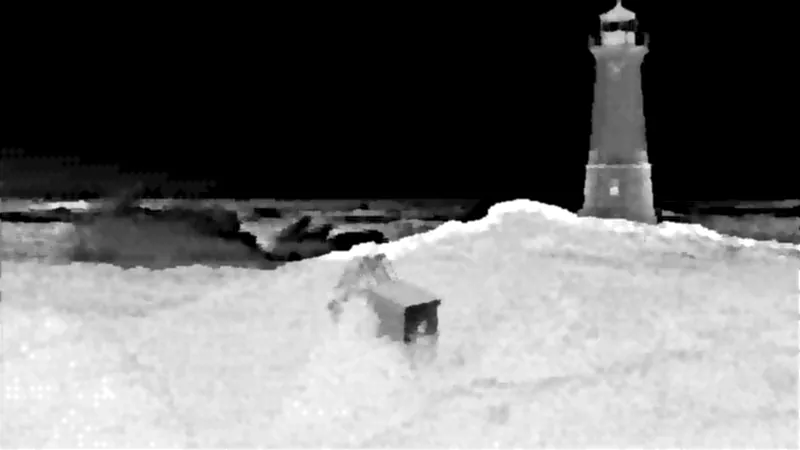
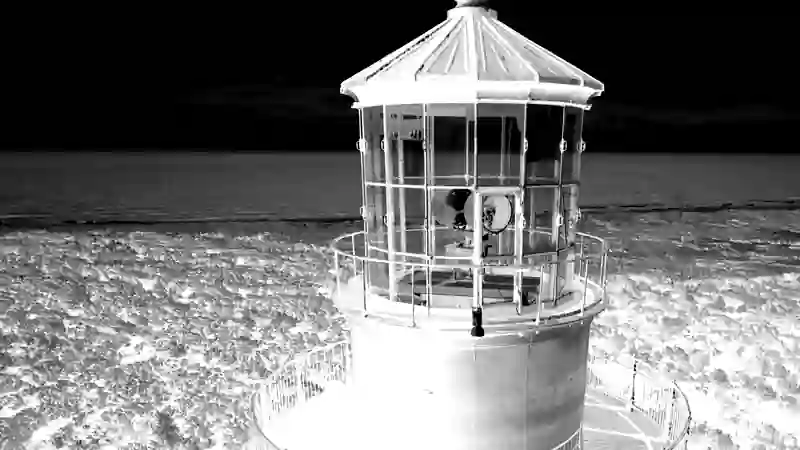
landing: the canvas screen's photograph is Cape Hatteras Light, public domain
Kevin's decision of 2026-10-18: screen 02 and the landing's fixture deck
replace the Louisbourg lighthouse (Ken Heaton, CC BY-SA 4.0) with the
National Park Service photograph "Cape Hatteras Lighthouse inspection
12-11-2020" (Commons, Flickr CapeHatterasNPS 53553243102), a public domain
work of the United States federal government. The GT brand deck keeps the
Louisbourg lighthouse and its credit row.

- apps/studio/home-deck: the asset mood-lighthouse is re-dithered by the
  CLI from the original (4608 by 3456, not committed) with `turboslide
  asset dither mood-lighthouse --source <original> --crop 0,0,4000,2250
  --invert --black 28 --white 223 --polarity dark-ground --plate
  lower-right`: the top left 16:9 crop, the 8 by 8 Bayer screen at 2 px
  cells, the dark twin the inverse of the light one. The twins are the
  pipeline's 1-bit PNGs (18 KB each) in place of the two grayscale JPEGs
  copied from the GT deck (582 and 586 KB). The black and white points
  reproduce the preview's stretch (sharp normalise 2 to 98, linear 1.25,
  -32) after the fixed 0.5 percent autocontrast. The record's source,
  credit and alt text name the new photograph; metrics are the CLI's.
- The slide's words: "Cape Hatteras Light", "The lantern of Cape Hatteras
  Light on North Carolina's Outer Banks, printed through an 8 by 8 screen
  at 2 px cells.", "Photograph: National Park Service, public domain". The
  heading fits the 508 px box on one line; the paragraph takes three
[…]

diff --git a/apps/studio/src/components/site/canvas-pose.ts b/apps/studio/src/components/site/canvas-pose.ts
@@ -1,7 +1,8 @@
 /**
  * The lighthouse slide of screen 02 (docs/SITE.md 9) in slide px, as the Turboslide CLI wrote
- * it (2026.1008.3, built at b01cb984, on a copy of `apps/studio/home-deck`): `slide to-canvas
- * lighthouse` placed every object at its box (home-deck/recorded/lighthouse-canvas.json), then
+ * it (2026.1008.3, built at 417fd808, on a copy of `apps/studio/home-deck`): `slide to-canvas
+ * lighthouse` placed every object at its box (home-deck/recorded/lighthouse-canvas.json; the
+ * heading takes one line of the plate, the paragraph three), then
  * `block set lighthouse#h /pos '{"x":137,"y":129,"w":508,"h":48}'` and `block rotate lighthouse#h
  * --to 354` moved and turned the heading. An editor drag commits the same `block.set` on `/pos`
  * (packages/viewer/src/Gestures.tsx) and a turn the same rotate. The table rounds to whole px.
@@ -9,11 +10,11 @@
 export type SlideBox = { x: number; y: number; w: number; h: number; rotate?: number };
 
 export const LIGHTHOUSE = {
-  plate: { x: 903, y: 569.734375, w: 560, h: 201.265625 },
-  paragraph: { x: 929, y: 651.25, w: 508, h: 66 },
+  plate: { x: 903, y: 536.734375, w: 560, h: 234.265625 },
+  paragraph: { x: 929, y: 618.25, w: 508, h: 99 },
   credit: { x: 929, y: 729.25, w: 508, h: 21.75 },
   /** the heading where `to-canvas` put it, on the plate */
-  rest: { x: 929, y: 591.734375, w: 508, h: 47.515625, rotate: 0 },
+  rest: { x: 929, y: 558.734375, w: 508, h: 47.515625, rotate: 0 },
   /** the heading after the two commands */
   moved: { x: 137, y: 129, w: 508, h: 48, rotate: 354 },
 } as const satisfies Record<string, SlideBox>;

diff --git a/apps/studio/src/components/site/copy.ts b/apps/studio/src/components/site/copy.ts
@@ -103,13 +103,13 @@ export const CANVAS_SCREEN = {
   figure: {
     label: 'Mood slide',
     note: 'The heading dragged off its plate and turned. The dashed box is where it was.',
-    alt: 'The lighthouse slide, a photograph of the Louisbourg lighthouse printed in a two tone dither. The heading, Louisbourg lighthouse, was dragged from the paper plate in the lower right to the sky in the upper left and turned 6 degrees to the left. The selection ring of the editor is on it.',
+    alt: 'The lighthouse slide, a drone photograph of the lantern room of Cape Hatteras Light printed in a two tone dither. The heading, Cape Hatteras Light, was dragged from the paper plate in the lower right to the sky in the upper left and turned 6 degrees to the left. The selection ring of the editor is on it.',
   },
   slide: {
-    heading: 'Louisbourg lighthouse',
+    heading: 'Cape Hatteras Light',
     paragraph:
-      'A lighthouse at Louisbourg, Nova Scotia, printed through an 8 by 8 screen at 2 px cells.',
-    credit: 'Photograph: Ken Heaton, CC BY-SA 4.0',
+      "The lantern of Cape Hatteras Light on North Carolina's Outer Banks, printed through an 8 by 8 screen at 2 px cells.",
+    credit: 'Photograph: National Park Service, public domain',
     /** the editor's selection chip on the heading: its kind and its id */
     chip: 'heading · h',
   },

diff --git a/apps/studio/src/components/site/copy.test.ts b/apps/studio/src/components/site/copy.test.ts
@@ -58,10 +58,10 @@ const NAMES = [
   'Present',
   /* the figures of screens 02 to 06: the photograph's place and author and its licence, the
      product's menus, panels and settings by name, the example deck and its file names */
-  'Louisbourg',
-  'Nova Scotia',
-  'Ken Heaton',
-  'CC BY-SA',
+  'Cape Hatteras Light',
+  'North Carolina',
+  'Outer Banks',
+  'National Park Service',
   'X',
   'Y',
   'New',

diff --git a/docs/brand.md b/docs/brand.md
@@ -276,10 +276,11 @@ the third entry dated 2026-10-01.
 Mood pictures appear on the card, Not found, the empty `/decks` state and the Sign in plate. On
 `/home` since the landing round (Kevin's answer 1 to `docs/LANDING.md` section 7, 2026-10-02) the
 Blue Marble prints in the hero's first screen as its field, with its credit on the hero slide, and
-since the landing's second pass (`docs/LANDING.md` 2.6, question 14, 2026-10-03) the Louisbourg
-lighthouse is the canvas band's picture in place of the Rosetta Stone, which leaves `/home`; the
-landing's fixture deck and the page's stills are copies and prints of the two files below, each
-listed with them. A picture whose licence was not read on its source
+since Kevin's decision of 2026-10-18 the canvas screen's picture is the National Park Service's
+photograph of Cape Hatteras Light, a public domain work of the United States federal government,
+in place of the Louisbourg lighthouse (CC BY-SA 4.0), which stays in the GT deck alone. The
+landing's fixture deck (`apps/studio/home-deck`) and screen 02's tone are copies and prints of
+the files below, each listed with them. A picture whose licence was not read on its source
 page stays out of the repository and the product. Lane B4 read each licence on 2026-10-02 between
 08:57Z and 09:01Z from the picture's source page or its record there (`round1/build/b4.md`, "The
 licence read"; the raw reads under `round1/build/b4/licence/`). Prototemplate's
@@ -294,7 +295,8 @@ backticks and states its licence.
 | A proto-cuneiform tablet, `mood-tablet`                  | `decks/gt-brand/assets/mood-tablet-{light,dark}.jpg`                                                                                                                                                                                                                                                                                                                                                 | Photograph: The Metropolitan Museum of Art, Open Access, public domain         | CC0 (the Met's donation of photograph DP293245); the Met's collection API reads `isPublicDomain: true` for object 327385 | https://commons.wikimedia.org/wiki/File:Cuneiform_tablet-_administrative_account_with_entries_concerning_malt_and_barley_groats_MET_DP293245.jpg |
 | Karahisari's calligraphy, `mood-calligraphy`             | `decks/gt-brand/assets/mood-calligraphy-{light,dark}.jpg`                                                                                                                                                                                                                                                                                                                                            | Calligraphy: Ahmed Karahisari, 16th century, public domain                     | Public domain (PD-Art, PD-old-auto-expired, death year 1556)                                                             | https://commons.wikimedia.org/wiki/File:Ahmed_Karahisari_-_Karalama_(calligraphy_exercise)_-_Google_Art_Project.jpg                              |
 | Johnson's grammar, `mood-johnson`                        | `decks/gt-brand/assets/mood-johnson-{light,dark}.jpg`                                                                                                                                                                                                                                                                                                                                                | Image: Samuel Johnson, 1755, scanned by the Wellcome Collection, public domain | Public domain: the Creative Commons Public Domain Mark 1.0 in the item's rights field                                    | https://archive.org/details/b30451541_0001                                                                                                       |
-| The Louisbourg lighthouse, `mood-lighthouse`             | `decks/gt-brand/assets/mood-lighthouse-{light,dark}.jpg`, `apps/studio/home-deck/assets/mood-lighthouse-{light,dark}.jpg` (the landing's fixture, slide 6), `apps/studio/public/home/lighthouse-still-{wide,narrow}-*.webp` and `apps/studio/public/home/lighthouse-tone-*.jpg` (the canvas band's print and its tone map)                                                                           | Photograph: Ken Heaton, CC BY-SA 4.0                                           | CC BY-SA 4.0, Ken Heaton; attribution required                                                                           | https://commons.wikimedia.org/wiki/File:Louisbourg_Lighthouse,_waves_breaking_in_a_fall_storm_1.jpg                                              |
+| The Louisbourg lighthouse, `mood-lighthouse`             | `decks/gt-brand/assets/mood-lighthouse-{light,dark}.jpg`                                                                                                                                                                                                                                                                                                                                             | Photograph: Ken Heaton, CC BY-SA 4.0                                           | CC BY-SA 4.0, Ken Heaton; attribution required                                                                           | https://commons.wikimedia.org/wiki/File:Louisbourg_Lighthouse,_waves_breaking_in_a_fall_storm_1.jpg                                              |
+| Cape Hatteras Light, the landing's `mood-lighthouse`     | `apps/studio/home-deck/assets/mood-lighthouse-{light,dark}.png` (the fixture's slide `lighthouse`), `apps/studio/src/components/site/pictures/lighthouse-tone.webp` (the tone screen 02 prints)                                                                                                                                                                                                      | Photograph: National Park Service, public domain                               | Public domain (US federal work, National Park Service)                                                                   | https://commons.wikimedia.org/wiki/File:Cape_Hatteras_Lighthouse_inspection_12-11-2020_-_53553243102.jpg                                         |
 | The Compact Oxford English Dictionary, `mood-dictionary` | `decks/gt-brand/assets/mood-dictionary-{light,dark}.jpg`                                                                                                                                                                                                                                                                                                                                             | Photograph: Cullen328, CC BY-SA 4.0                                            | CC BY-SA 4.0, Cullen328; attribution required                                                                            | https://commons.wikimedia.org/wiki/File:Compact_Oxford_English_Dictionary_2.jpg                                                                  |
 | The Prashna Upanishad page, `mood-devanagari`            | `decks/gt-brand/assets/mood-devanagari-{light,dark}.jpg`                                                                                                                                                                                                                                                                                                                                             | Photograph: Ms Sarah Welch, CC BY-SA 4.0                                       | CC BY-SA 4.0, Ms Sarah Welch; attribution required                                                                       | https://commons.wikimedia.org/wiki/File:Prashna_Upanishad_sample_manuscript_page,_Sanskrit,_Devanagari_script.jpg                                |
 | The glossed Alexandreis, `mood-gloss`                    | `decks/gt-brand/assets/mood-gloss-{light,dark}.jpg`                                                                                                                                                                                                                                                                                                                                                  | Image: MS f Med. 23, Boston Public Library, public domain                      | Public domain in the United States: No Copyright - United States (rightsstatements.org), contributed through the DPLA    | https://commons.wikimedia.org/wiki/File:Alexandreis_with_gloss_-_in_Latin_-_DPLA_-_98b56ea1ebec780d88ec0bdfa6750159_(page_69).jpg                |
@@ -309,8 +311,8 @@ Notes on the table:
   licence URL or copyright status). It stays out of the repository and the product until a scan
   whose page states a licence is read. The Turboslide decks keep the Compact OED photograph above.
 - A dithered copy of a CC BY-SA 4.0 photograph is an adaptation: it carries the credit and is shared
-  under CC BY-SA 4.0. Of the four, only the lighthouse is used outside the decks: on `/home`'s
-  canvas band, whose slide carries its credit on the plate.
+  under CC BY-SA 4.0. None of the four is used outside the decks since 2026-10-18, when Cape
+  Hatteras Light took the Louisbourg lighthouse's place on `/home`.
 - The gloss carries No Copyright - United States, which says the item is free of copyright under
   United States law and may be protected elsewhere. The manuscript is of about 1250.
 - The landing's opener field (`apps/studio/home-deck/assets/field-{light,dark}.png`, the export

diff --git a/docs/SITE.md b/docs/SITE.md
@@ -72,7 +72,7 @@ The Workbench direction Kevin picked on 2026-10-14 for the landing and the docs,
 Kevin, 2026-10-16: "i kind of liked the diagrams and the dithered visuals that we had before". The old landing's pictures (`0ee4e86c`) were reviewed one by one and redrawn in the Workbench grammar (`turboslide-scratch/visuals/`); each figure below is drawn by the page from the product's own numbers, as honest HTML and SVG over the `--pt-` tokens, in both appearances, at 12 px type at least and with no sideways scroll at 390.
 
 - **The seams.** Each screen head's rule runs to both edges of the window (a `border-image` outset of the head's own border, ink overflow, so no scroll width), and a 9 px cross in `--pt-cross` stands where a seam or the footer's rule meets an edge of the 1280 px column, on the pixel columns of the frames' corner crosses. The column's rails are not drawn: text sits flush with the column. `site.css`, no element.
-- **Screen 02, Canvas.** The lighthouse slide in the example theme's frame after one drag and one turn of its heading: every box is the one the CLI wrote (`canvas-pose.ts`: `slide to-canvas`, `block set /pos`, `block rotate`), the dashed box is where the heading was, the editor's selection (Overlay.css, `TEXT_RING_OUTSET`) is where it is, and the table gives the box at rest and moved in the Format options words. The photograph (Ken Heaton, CC BY-SA 4.0, credited on the slide and under the table) is printed live through the deck's 8 by 8 screen (`cells.ts`, `@turboslide/effects/bayer`) from an 800 by 450 tone (`pictures/lighthouse-tone.webp`, 12 KB) at the smallest whole CSS px cell that keeps the cells at or under 800 columns: 2 px at 1440, 1 px on a phone. Nothing moves.
+- **Screen 02, Canvas.** The lighthouse slide in the example theme's frame after one drag and one turn of its heading: every box is the one the CLI wrote (`canvas-pose.ts`: `slide to-canvas`, `block set /pos`, `block rotate`), the dashed box is where the heading was, the editor's selection (Overlay.css, `TEXT_RING_OUTSET`) is where it is, and the table gives the box at rest and moved in the Format options words. The photograph (the lantern room of Cape Hatteras Light from a drone, National Park Service, public domain, credited on the slide and under the table; `docs/brand.md` section 8) is printed live through the deck's 8 by 8 screen (`cells.ts`, `@turboslide/effects/bayer`) from an 800 by 450 tone (`pictures/lighthouse-tone.webp`, 13 KB: the tone image of the fixture asset's two-tone treatment, the values its twins were screened from) at the smallest whole CSS px cell that keeps the cells at or under 800 columns: 2 px at 1440, 1 px on a phone. Nothing moves.
 - **Screen 03, the one path.** Under the run and the table: the menu item and the four transports join one rail through `slide.new`, its input check (400 and the failing field) and its revision check (409 and the current document) to Version history (`AgentsFlow.tsx`). 1 px CSS rules in two solid tokens on the page's 12 columns, one vertical rail under 1024 px; the note on the two checks sits under it.
 - **Screen 04, presenter view.** A ruled row after the keys: the slideshow (seen by the audience) and presenter view (seen by you) joined by one ink line, S opens, the arrows move both (`PresentWindows.tsx`). The console is drawn to `PresenterConsole.tsx` with the viewer's own words (`PRESENT_TEXT`); the slides are the example deck's slides 2 and 3.
 - **Screen 05, Patterns.** A slide with the Dithering pattern beside the moments 0 to 10 s of its movement on one time axis, the 4 s moment ringed as the still, and where a pattern moves (the docs' objects chapter). The pattern is the `paper:dithering` shader's sphere and table ported to the CPU (`pattern-cells.ts`), no WebGL: the slide plays at 30 frames a second while at least half of it is on screen and the tab is shown, with a playhead on the axis; under Reduce motion it holds the still and draws no playhead.
